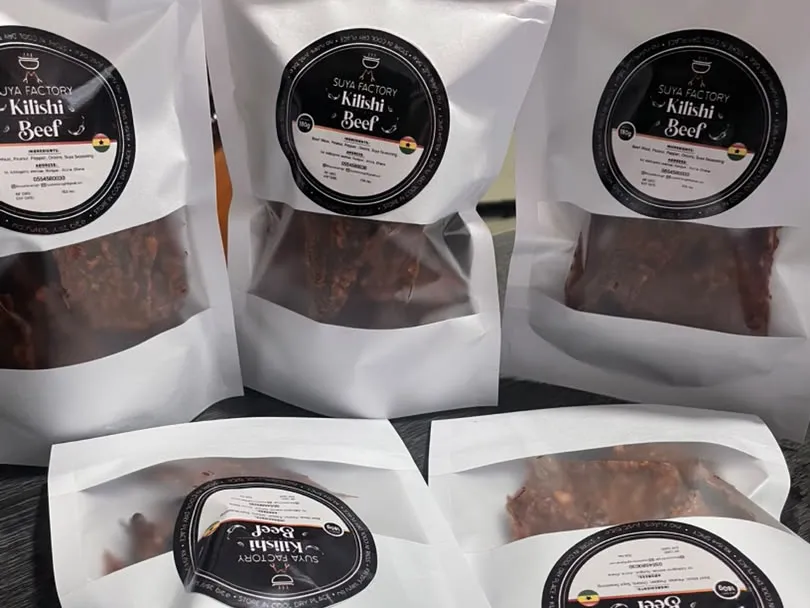
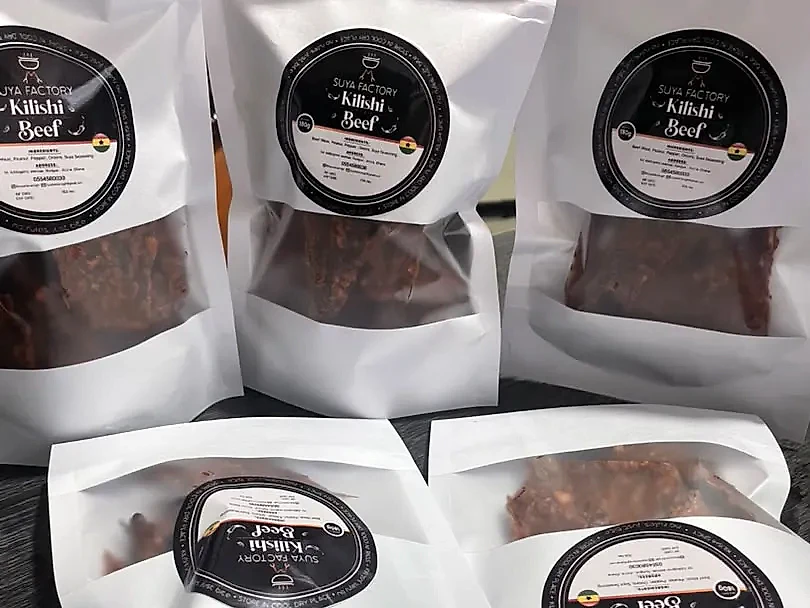
Enhanced photos (contrast, colour, sharpness; originals backed up), plate photo first, cow and chilli doodles, product-card stickers, and small brand animations (hero rise, underline draw, tilt-in, flame flicker, sparkle, simmering ripples, cart bump), all off for reduced motion

diff --git a/src/app/page.tsx b/src/app/page.tsx
@@ -6,7 +6,7 @@ import { Suspense } from "react";
 import { ProductGrid, ProductGridSkeleton } from "@/components/product-grid";
 import { HeroOrder, OrderBarForPage } from "@/components/quick-order";
 import { Reveal } from "@/components/reveal";
-import { Flame, Sparks, Squiggle, Swirl } from "@/components/doodles";
+import { Cow, Flame, Sparks, Squiggle, Swirl } from "@/components/doodles";
 import { getCountry } from "@/lib/country";
 import { SELLS_VIA_SUPERMARKETS } from "@/lib/stores";
 import { SOCIAL } from "@/lib/business";
@@ -26,7 +26,7 @@ export default function HomePage() {
               <p className="text-xs font-semibold uppercase tracking-[0.18em] text-accent">The one and only</p>
               <h2 className="mt-2 font-display text-3xl font-semibold tracking-tight text-ink sm:text-4xl">Our beef kilishi</h2>
             </div>
-            <Flame className="hidden h-12 w-10 text-accent sm:block" />
+            <Flame className="flicker hidden h-12 w-10 text-accent sm:block" />
           </Reveal>
           <Reveal>
             <Suspense fallback={<ProductGridSkeleton />}>
@@ -65,25 +65,27 @@ function Hero() {
         className="pointer-events-none absolute -right-40 -top-40 h-[34rem] w-[34rem] rounded-full bg-[radial-gradient(circle,color-mix(in_srgb,var(--sun)_45%,transparent),transparent_65%)] opacity-70" />
       <div className={`${wrap} relative grid items-center gap-12 py-7 sm:py-20 md:grid-cols-[1.05fr_1fr] md:py-24`}>
         <div>
-          <p className="inline-flex items-center gap-2 rounded-lg border border-line bg-surface/70 px-3 py-1.5 text-xs font-medium text-muted">
-            <Flame className="h-4 w-3.5 text-accent" />
+          <p className="hero-in inline-flex items-center gap-2 rounded-lg border border-line bg-surface/70 px-3 py-1.5 text-xs font-medium text-muted">
+            <Flame className="flicker h-4 w-3.5 text-accent" />
             Spicy beef kilishi · Lagos &amp; Accra
           </p>
-          <h1 className="mt-4 font-display text-[2.6rem] font-semibold sm:mt-6 sm:text-5xl leading-[1.02] tracking-tight text-ink md:text-6xl lg:text-7xl">
+          <h1 style={{ "--d": "0.08s" } as React.CSSProperties} className="hero-in mt-4 font-display text-[2.6rem] font-semibold sm:mt-6 sm:text-5xl leading-[1.02] tracking-tight text-ink md:text-6xl lg:text-7xl">
             No rules,
             <br />
             <span className="relative inline-block">
               just bite.
-              <Squiggle className="absolute -bottom-3 left-0 h-4 w-full text-accent" />
+              <Squiggle className="draw absolute -bottom-3 left-0 h-4 w-full text-accent" />
             </span>
           </h1>
-          <p className="mt-5 max-w-md leading-relaxed text-muted sm:mt-7 sm:text-lg">
+          <p style={{ "--d": "0.16s" } as React.CSSProperties} className="hero-in mt-5 max-w-md leading-relaxed text-muted sm:mt-7 sm:text-lg">
             Soft and crunchy in every piece. Prepared in a clean kitchen, sealed fresh, and seriously spicy.
           </p>
           {/* Order straight from the first screen: no scrolling needed. */}
-          <Suspense fallback={<div className="mt-8 h-44 max-w-md animate-pulse rounded-2xl bg-surface" />}>
-            <HeroOrder />
-          </Suspense>
+          <div style={{ "--d": "0.24s" } as React.CSSProperties} className="hero-in">
+            <Suspense fallback={<div className="mt-8 h-44 max-w-md animate-pulse rounded-2xl bg-surface" />}>
+              <HeroOrder />
+            </Suspense>
+          </div>
           <a href="#how-it-works" className="mt-4 inline-block text-sm font-medium text-muted underline-offset-4 hover:text-ink hover:underline">
             How it works
           </a>
@@ -92,16 +94,17 @@ function Hero() {
         <div className="relative mx-auto w-full max-w-lg md:max-w-none">
           {/* Abstract shape behind the photo */}
           <div aria-hidden="true"
-            className="absolute -inset-4 -z-0 rotate-3 rounded-[2.25rem] bg-gradient-to-br from-accent via-[color-mix(in_srgb,var(--accent)_60%,var(--sun))] to-sun opacity-90" />
+            className="tilt-in absolute -inset-4 -z-0 rotate-3 rounded-[2.25rem] bg-gradient-to-br from-accent via-[color-mix(in_srgb,var(--accent)_60%,var(--sun))] to-sun opacity-90" />
           <div className="relative overflow-hidden rounded-[1.75rem] shadow-[0_30px_60px_-30px_rgba(60,25,5,0.55)]">
             <Image src="/images/kilishi-plate.jpg" alt="Suya Factory beef kilishi on a white plate, coated in red pepper spice"
               width={1080} height={1078} priority sizes="(min-width: 768px) 560px, 100vw"
               className="aspect-[5/4] w-full object-cover" />
           </div>
-          <p className="absolute -bottom-5 left-5 rounded-xl border border-line bg-surface px-4 py-2.5 text-sm font-medium text-ink shadow-sm">
-            Halal · Sealed fresh
+          <p className="absolute -bottom-5 left-5 flex items-center gap-2.5 rounded-xl border border-line bg-surface py-2 pl-2.5 pr-4 text-sm font-medium text-ink shadow-sm">
+            <Cow className="h-8 w-8 text-ink" />
+            <span>Halal beef<span className="block text-xs font-normal text-muted">Sealed fresh</span></span>
           </p>
-          <Sparks className="absolute -right-3 -top-9 h-10 w-10 text-ink/70" />
+          <Sparks className="twinkle absolute -right-3 -top-9 h-10 w-10 text-ink/70" />
           <Swirl className="absolute -left-14 top-8 hidden h-10 w-28 text-ink/50 lg:block" />
         </div>
       </div>
@@ -194,6 +197,10 @@ function ComingSoon() {
         {/* Thin rings, like ripples in a pot */}
         <svg viewBox="0 0 400 400" className="absolute right-[6%] top-1/2 hidden h-[26rem] w-[26rem] -translate-y-1/2 text-on-night/15 md:block">
           {[70, 110, 150, 190].map((r) => <circle key={r} cx="200" cy="200" r={r} fill="none" stroke="currentColor" strokeWidth="1" />)}
+          {[0, 1.5, 3].map((d) => (
+            <circle key={d} className="ripple" style={{ "--d": `${d}s` } as React.CSSProperties}
+              cx="200" cy="200" r="120" fill="none" stroke="var(--accent)" strokeWidth="1" />
+          ))}
           <circle cx="200" cy="200" r="30" fill="none" stroke="var(--accent)" strokeWidth="1.5" />
         </svg>
       </div>

diff --git a/src/components/product-grid.tsx b/src/components/product-grid.tsx
@@ -8,6 +8,7 @@ import { FOOD_INFO } from "@/lib/business";
 import { ProductImage } from "@/components/product-image";
 import { AddPackButton } from "@/components/add-pack-button";
 import { SELLS_VIA_SUPERMARKETS } from "@/lib/stores";
+import { Chilli, Cow, Flame } from "@/components/doodles";
 
 /**
  * Our products as clear "product panels": photo, name, short description, the
@@ -38,18 +39,27 @@ export async function ProductGrid() {
         return (
           <li key={product.id}
             className="overflow-hidden rounded-[1.5rem] border border-line bg-surface md:grid md:grid-cols-[minmax(0,1fr)_minmax(0,1fr)]">
-            <Link href={href} aria-label={`${product.name}: see details`} className="group block overflow-hidden md:h-full">
+            <Link href={href} aria-label={`${product.name}: see details`} className="group relative block overflow-hidden md:h-full">
               <ProductImage name={product.name} src={product.imageUrls[0]} index={i}
                 className="transition duration-700 group-hover:scale-[1.03] md:aspect-auto md:h-full md:min-h-96"
                 sizes="(min-width: 768px) 560px, 100vw" />
+              {/* Hand-drawn sticker: our beef */}
+              <span className="absolute bottom-4 left-4 flex items-center gap-2 rounded-2xl bg-surface/95 py-1.5 pl-1.5 pr-3.5 text-sm font-medium text-ink shadow-sm">
+                <span className="grid h-10 w-10 place-items-center rounded-xl bg-cream"><Cow className="h-8 w-8" /></span>
+                Halal beef
+              </span>
+              <span className="absolute right-4 top-4 grid h-11 w-11 place-items-center rounded-full bg-night/85 text-sun">
+                <Flame className="flicker h-6 w-5" />
+              </span>
             </Link>
 
             <div className="flex flex-col p-6 sm:p-9">
               {product.category?.name && (
                 <p className="text-xs font-semibold uppercase tracking-[0.18em] text-accent">{product.category.name}</p>
               )}
-              <h3 className="mt-2 font-display text-3xl font-semibold tracking-tight text-ink sm:text-4xl">
+              <h3 className="mt-2 flex items-center gap-3 font-display text-3xl font-semibold tracking-tight text-ink sm:text-4xl">
                 <Link href={href} className="transition hover:text-accent">{product.name}</Link>
+                <Chilli className="h-8 w-8 shrink-0 text-accent" />
               </h3>
               {product.description && <p className="mt-3 line-clamp-3 leading-relaxed text-muted">{product.description}</p>}
 

diff --git a/src/app/globals.css b/src/app/globals.css
@@ -206,3 +206,43 @@ html[data-intro-seen] .intro-loader { display: none; }
 
 /* No intro loader in the admin. */
 body:has([data-theme-lock]) .intro-loader { display: none; }
+
+/* ---------- Small brand animations (only when motion is welcome) ---------- */
+@media (prefers-reduced-motion: no-preference) {
+  /* Hero opening: lines rise in one after another (after the intro loader on a first visit). */
+  .hero-in { animation: hero-rise 0.8s cubic-bezier(0.2, 0.7, 0.2, 1) both; animation-delay: var(--d, 0s); }
+  html:not([data-intro-seen]) .hero-in { animation-delay: calc(var(--d, 0s) + 0.95s); }
+  @keyframes hero-rise { from { opacity: 0; transform: translateY(16px); } }
+
+  /* The orange shape behind the hero photo settles into its tilt. */
+  .tilt-in { animation: tilt-in 1.1s cubic-bezier(0.2, 0.7, 0.2, 1) both; animation-delay: 0.15s; }
+  html:not([data-intro-seen]) .tilt-in { animation-delay: 1.1s; }
+  @keyframes tilt-in { from { transform: rotate(-4deg) scale(0.94); opacity: 0; } }
+
+  /* The hand-drawn underline draws itself. */
+  .draw path { stroke-dasharray: 260; stroke-dashoffset: 260; animation: draw 1s ease-out 0.6s forwards; }
+  html:not([data-intro-seen]) .draw path { animation-delay: 1.5s; }
+  @keyframes draw { to { stroke-dashoffset: 0; } }
+
+  /* Flames flicker softly; sparks twinkle. */
+  .flicker { transform-origin: 50% 100%; animation: flicker 2.6s ease-in-out infinite; }
+  @keyframes flicker {
+    0%, 100% { transform: scale(1, 1) skewX(0deg); }
+    30% { transform: scale(0.97, 1.06) skewX(-2deg); }
+    60% { transform: scale(1.02, 0.97) skewX(2deg); }
+  }
+  .twinkle { animation: twinkle 2.4s ease-in-out infinite; }
+  @keyframes twinkle { 50% { opacity: 0.35; transform: scale(0.85) rotate(12deg); } }
+
+  /* "Something new is simmering": rings ripple out like a simmering pot. */
+  .ripple { transform-origin: center; transform-box: fill-box; animation: ripple 4.5s ease-out infinite; animation-delay: var(--d, 0s); }
+  @keyframes ripple { from { transform: scale(0.55); opacity: 0.9; } to { transform: scale(1.35); opacity: 0; } }
+
+  /* Cart number pops when it changes. */
+  .bump { animation: bump 0.45s cubic-bezier(0.3, 1.6, 0.5, 1); }
+  @keyframes bump { 40% { transform: scale(1.35); } }
+
+  /* Buttons lift a touch on hover. */
+  .btn:hover { transform: translateY(-1px); }
+  .btn:active { transform: translateY(1px); }
+}

diff --git a/src/components/doodles.tsx b/src/components/doodles.tsx
@@ -15,13 +15,14 @@ export function Flame({ className = "" }: Props) {
   );
 }
 
-/** A chilli pepper. */
+/** A chilli pepper: wide at the stem, curling to a point. */
 export function Chilli({ className = "" }: Props) {
   return (
-    <svg viewBox="0 0 48 32" className={className} aria-hidden="true">
-      <path {...line} d="M8 10c10 1 20 4 27 12 3 3.5 2 7-1.5 6.5C22 27 12 21 6.5 14.5 4.5 12 5.5 9.5 8 10z" />
-      <path {...line} d="M7.5 10.5C6 7 7 4 10 3" />
-      <path {...line} d="M5 6.5c2-1 4.5-.5 5.5 1" />
+    <svg viewBox="0 0 48 48" className={className} aria-hidden="true">
+      <path {...line} d="M13 13c6-2 11 0 13 5 3 8 6 15 15 20 2 1 1 3-1 3-11 0-22-6-27-16-2-5-3-10 0-12z" />
+      <path {...line} d="M10 15c1-3 3-4.5 6-4.5 1.5 0 3 .7 4 1.8" />
+      <path {...line} d="M13 11c-1-3 0-6 3-8" />
+      <path {...line} d="M17 24c2 4 5 8 9 10" opacity="0.5" />
     </svg>
   );
 }
@@ -50,6 +51,32 @@ export function Squiggle({ className = "" }: Props) {
   return (
     <svg viewBox="0 0 200 16" preserveAspectRatio="none" className={className} aria-hidden="true">
       <path {...line} strokeWidth={3} d="M3 10c20-8 34 6 52 0s30-8 48 0 32 6 50-1 28-6 44 1" />
+    </svg>
+  );
+}
+
+/** A friendly cow head in line art (our beef), same stroke style as the logo. */
+export function Cow({ className = "" }: Props) {
+  return (
+    <svg viewBox="0 0 64 64" className={className} aria-hidden="true">
+      {/* horns */}
+      <path {...line} d="M19 17c-5-2-7-7-5-11" />
+      <path {...line} d="M45 17c5-2 7-7 5-11" />
+      {/* ears */}
+      <path {...line} d="M18 22c-6-1-11 1-12 4 4 3 9 2 13-1" />
+      <path {...line} d="M46 22c6-1 11 1 12 4-4 3-9 2-13-1" />
+      {/* head */}
+      <path {...line} d="M19 18c8-5 18-5 26 0 2 7 2 14-1 20" />
+      <path {...line} d="M19 18c-2 7-2 14 1 20" />
+      {/* tuft */}
+      <path {...line} d="M27 16c1.5 3 5 3.5 6.5 0 1 2.5 3.5 3 5 .5" />
+      {/* eyes */}
+      <circle cx="25.5" cy="28" r="1.6" fill="currentColor" />
+      <circle cx="38.5" cy="28" r="1.6" fill="currentColor" />
+      {/* muzzle + nostrils */}
+      <path {...line} d="M20 40c0-4 5-6 12-6s12 2 12 6-5 9-12 9-12-5-12-9z" />
+      <circle cx="27" cy="41.5" r="1.4" fill="currentColor" />
+      <circle cx="37" cy="41.5" r="1.4" fill="currentColor" />
     </svg>
   );
 }

diff --git a/src/components/cart-link.tsx b/src/components/cart-link.tsx
@@ -20,7 +20,7 @@ export function CartLink({ validIds }: { validIds?: string[] }) {
       </svg>
       <span className="hidden sm:inline">Cart</span>
       {count > 0 && (
-        <span className="absolute -right-1 top-0.5 min-w-5 rounded-full bg-accent px-1.5 text-center text-[11px] font-semibold leading-5 text-on-accent sm:static sm:text-xs">
+        <span key={count} className="bump absolute -right-1 top-0.5 min-w-5 rounded-full bg-accent px-1.5 text-center text-[11px] font-semibold leading-5 text-on-accent sm:static sm:text-xs">
           {count}
         </span>
       )}
